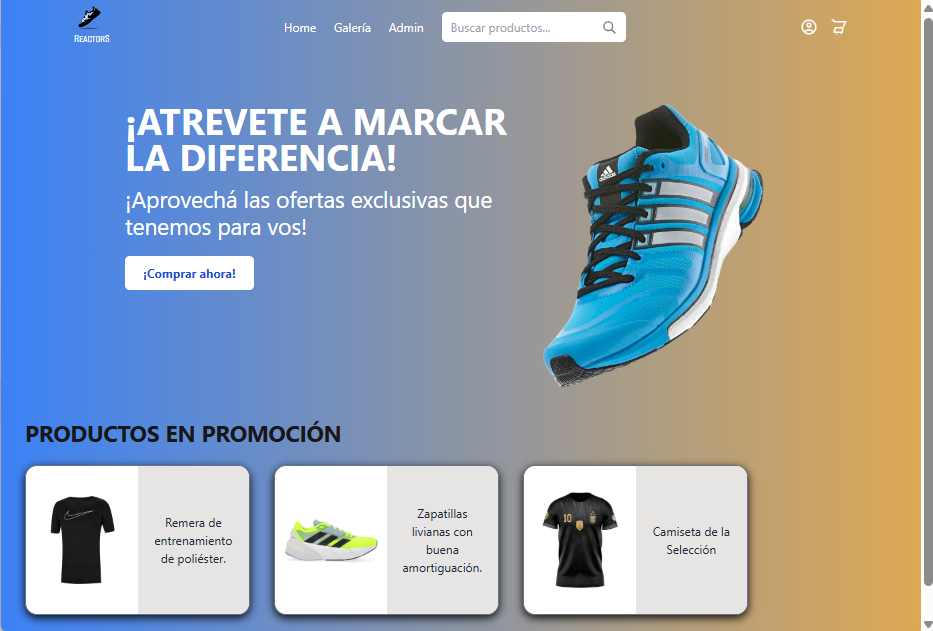
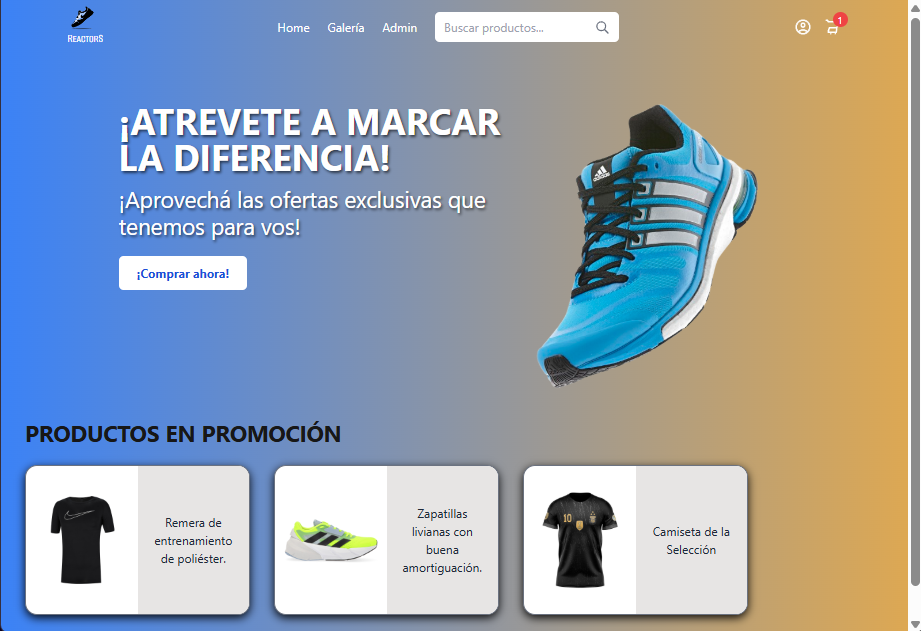
screenShots de la app

diff --git a/src/components/screen/HomeScreen.tsx b/src/components/screen/HomeScreen.tsx
@@ -47,10 +47,10 @@ export const HomeScreen: React.FC = () => {
       <section className="flex flex-row items-center justify-center text-white pt-16 mb-4  max-sm:pt-0">
         <div className="flex flex-row items-start max-w-screen-lg flex-wrap max-xs:flex-col max-sm:p-8 max-xs:items-center max-sm:flex-row max-sm:justify-between">
           <div className="max-w-lg max-xs:w-full max-xs:px-4 max-sm:w-2/3 max-sm:px-6">
-            <h1 className="text-5xl font-bold mb-4 w-full max-xs:text-3xl max-sm:text-4xl">
+            <h1 className="text-5xl font-bold mb-4 w-full max-xs:text-3xl max-sm:text-4xl [text-shadow:2px_2px_4px_rgba(0,0,0,0.6)]">
               ¡ATREVETE A MARCAR LA DIFERENCIA!
             </h1>
-            <p className="text-3xl mb-8 w-full max-xs:text-[17px] max-sm:text-[20px]">
+            <p className="text-3xl mb-8 w-full max-xs:text-[17px] max-sm:text-[20px] [text-shadow:2px_2px_4px_rgba(0,0,0,0.6)]">
               ¡Aprovechá las ofertas exclusivas que tenemos para vos!
             </p>
 

diff --git a/src/components/screen/CatalogoScreen.tsx b/src/components/screen/CatalogoScreen.tsx
@@ -275,7 +275,7 @@ export const CatalogoScreen = () => {
 
                     {/* Filtro Talle - NUEVO */}
                     <select
-                        className="w-32 bg-white text-[#25374d] font-medium rounded-lg border border-[#1c4577] hover:cursor-pointer px-3 py-2 shadow-sm focus:outline-none focus:ring-2 focus:ring-[#1c4577] focus:ring-opacity-50 transition"
+                        className="w-32 bg-white text-[#25374d] font-medium rounded-lg border border-[#748192] hover:cursor-pointer px-3 py-2 shadow-sm focus:outline-none focus:ring-2 focus:ring-[#1c4577] focus:ring-opacity-50 transition"
                         value={talle}
                         onChange={(e) => setTalle(e.target.value)}
                         disabled={tallesDisponibles.length === 0}
